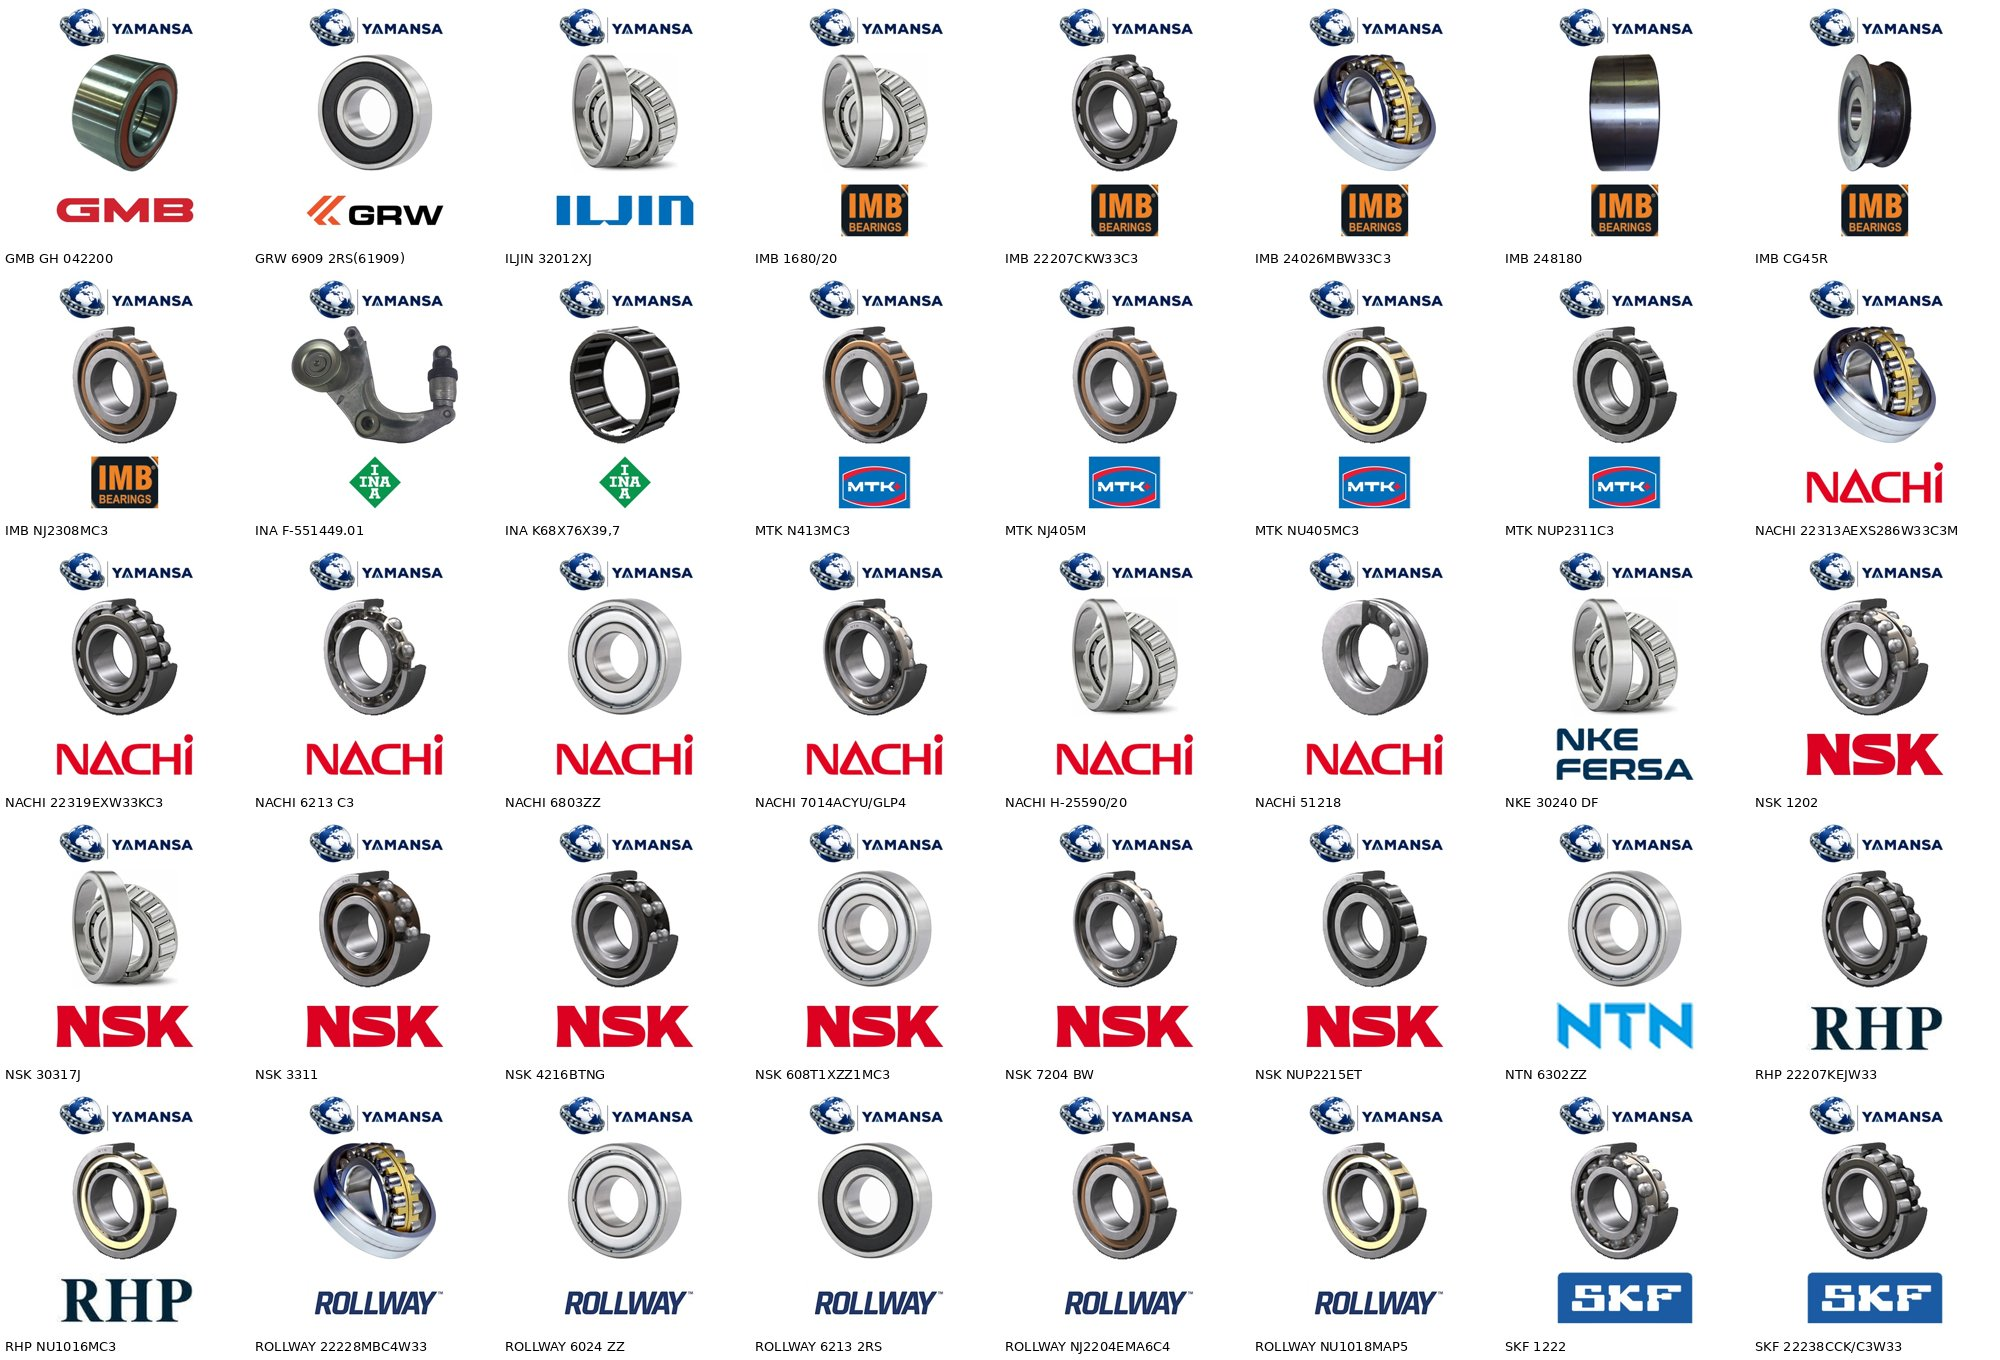
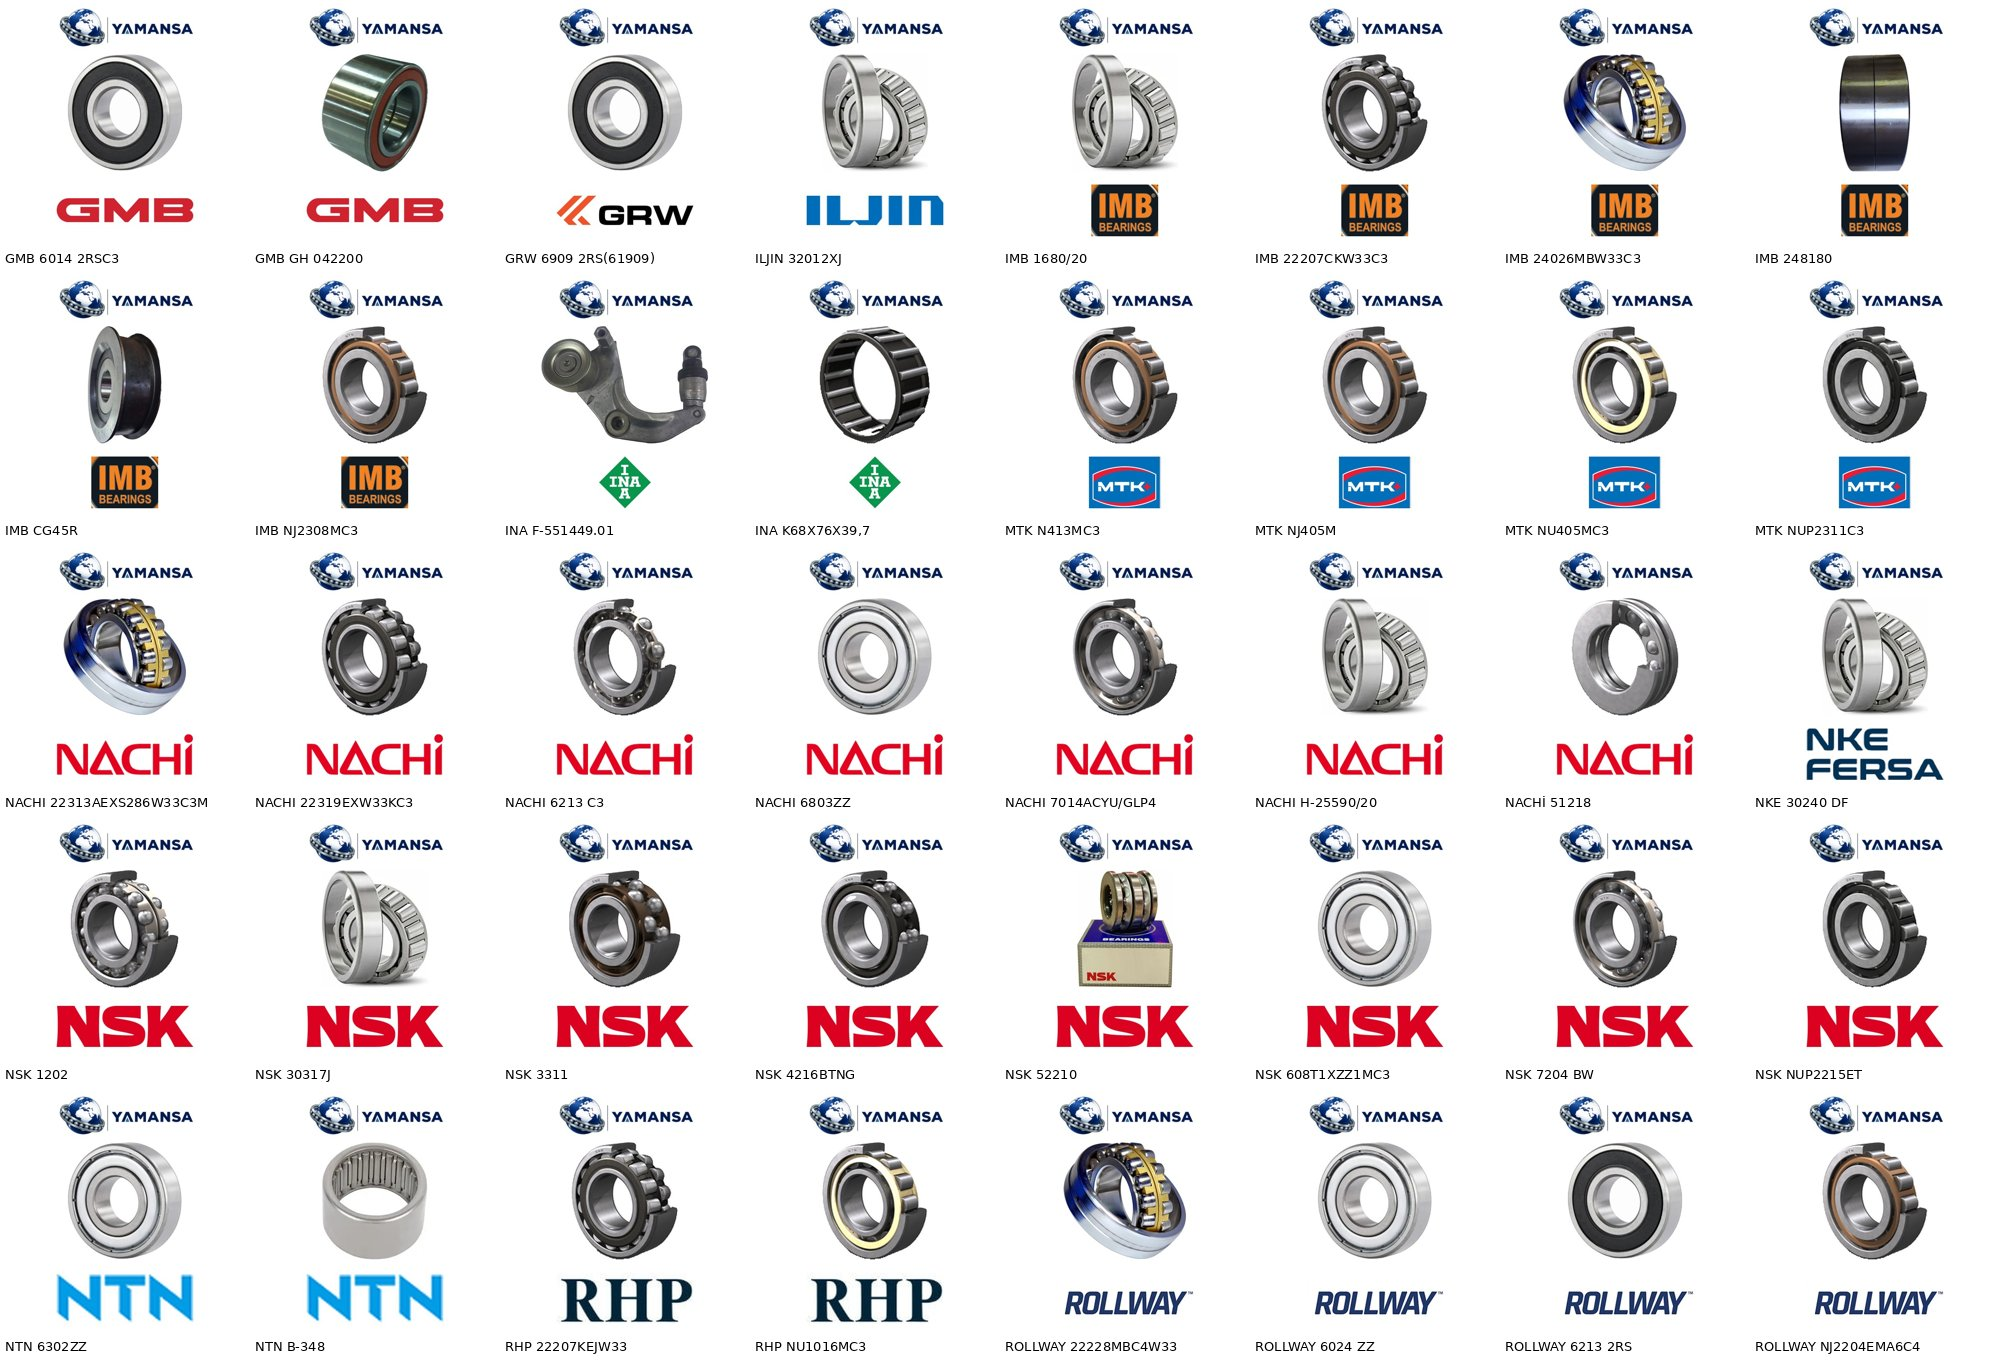
Parca 15: yeni gorseller (dolu makarali, igne kovan, eksenel)

diff --git a/rd/parca-15/RAPOR.md b/rd/parca-15/RAPOR.md
@@ -4,10 +4,10 @@ Toplam ürün: **2723**
 
 ## Görsel
 
-- Birebir ürün görseli: **23**
-- Aynı tip görsel: **760**
-- Görselsiz (bayraklı): **1940**
-- Farklı görsel dosyası: **118** (`gorseller/`)
+- Birebir ürün görseli: **24**
+- Aynı tip görsel: **779**
+- Görselsiz (bayraklı): **1920**
+- Farklı görsel dosyası: **121** (`gorseller/`)
 
 Aynı tip görseller yalnızca aynı rulman tipi ve aynı keçe/kapak durumundaki ürünlere verildi (açık / lastik keçeli / metal kapaklı ayrı). Segman yuvalı (NR/N) rulmanlara, keçe, kayış, zincir, mekanik salmastra, kam makarası gibi doğru görseli bulunamayan ürünlere görsel konmadı. Alt bantta logosu bulunamayan markalarda alt bant boş bırakıldı ve bayrak eklendi.
 
@@ -15,7 +15,7 @@ Aynı tip görseller yalnızca aynı rulman tipi ve aynı keçe/kapak durumundak
 
 ### Marka logosu kontrolü
 
-- Logo eklenen marka: ARB, DASLAGER, CNJDB, GRW, NKE, EZO, ILJIN (116 ürün)
+- Logo eklenen marka: ARB, DASLAGER, CNJDB, GRW, NKE, EZO, ILJIN (134 ürün)
 - Resmî logosu doğrulanamadığı için görseli kaldırılan: 384 ürün
 - Alt bandı boş görsel: 0
 
@@ -28,7 +28,7 @@ Aynı tip görseller yalnızca aynı rulman tipi ve aynı keçe/kapak durumundak
 ## Kategori
 
 - Kategorisi boş (bayraklı): **191**
-- En az bir bayrağı olan ürün: **2706**
+- En az bir bayrağı olan ürün: **2690**
 
 ### Ana kategori dağılımı
 
@@ -148,7 +148,7 @@ Aynı tip görseller yalnızca aynı rulman tipi ve aynı keçe/kapak durumundak
 | Not | Ürün |
 |---|---|
 | ölçüler doğrulanamadı, yazılmadı | 1637 |
-| doğru görsel bulunamadı | 1478 |
+| doğru görsel bulunamadı | 1458 |
 | marka logosu doğrulanamadı, görsel kaldırıldı | 384 |
 | ürün tipi kaynakla doğrulanamadı, kategori boş bırakıldı | 279 |
 | kesit görsel | 278 |
